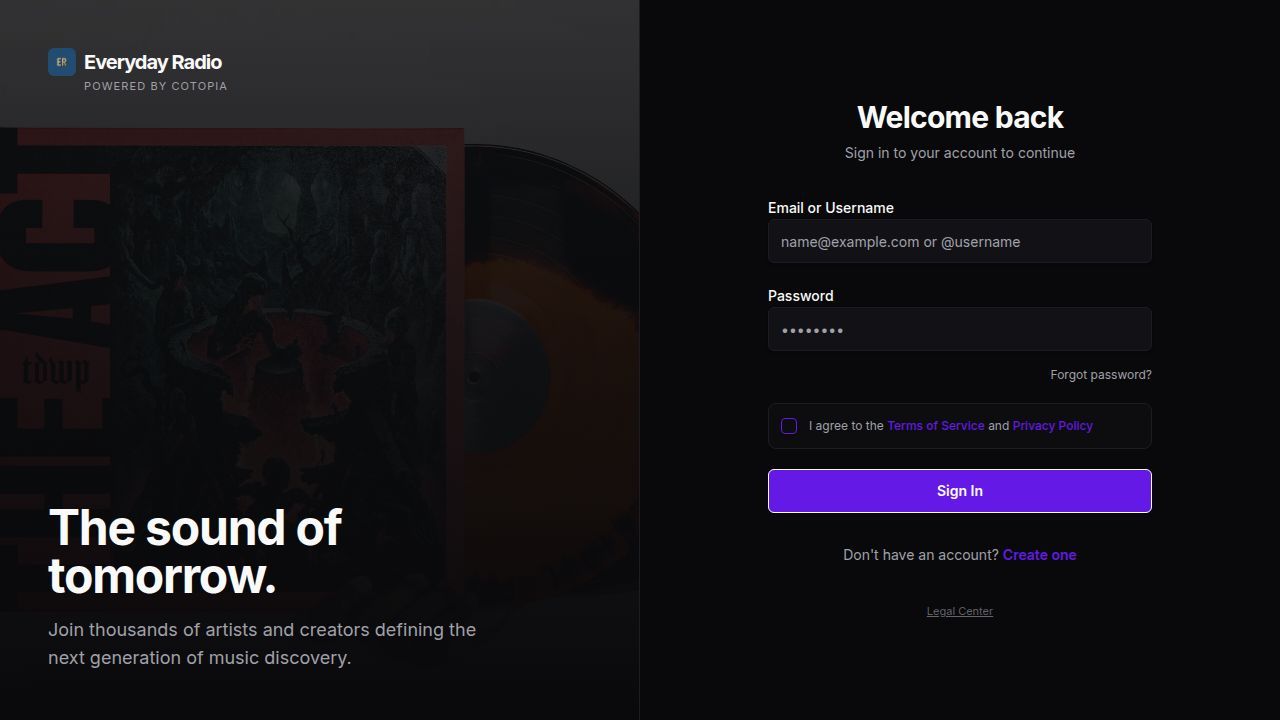
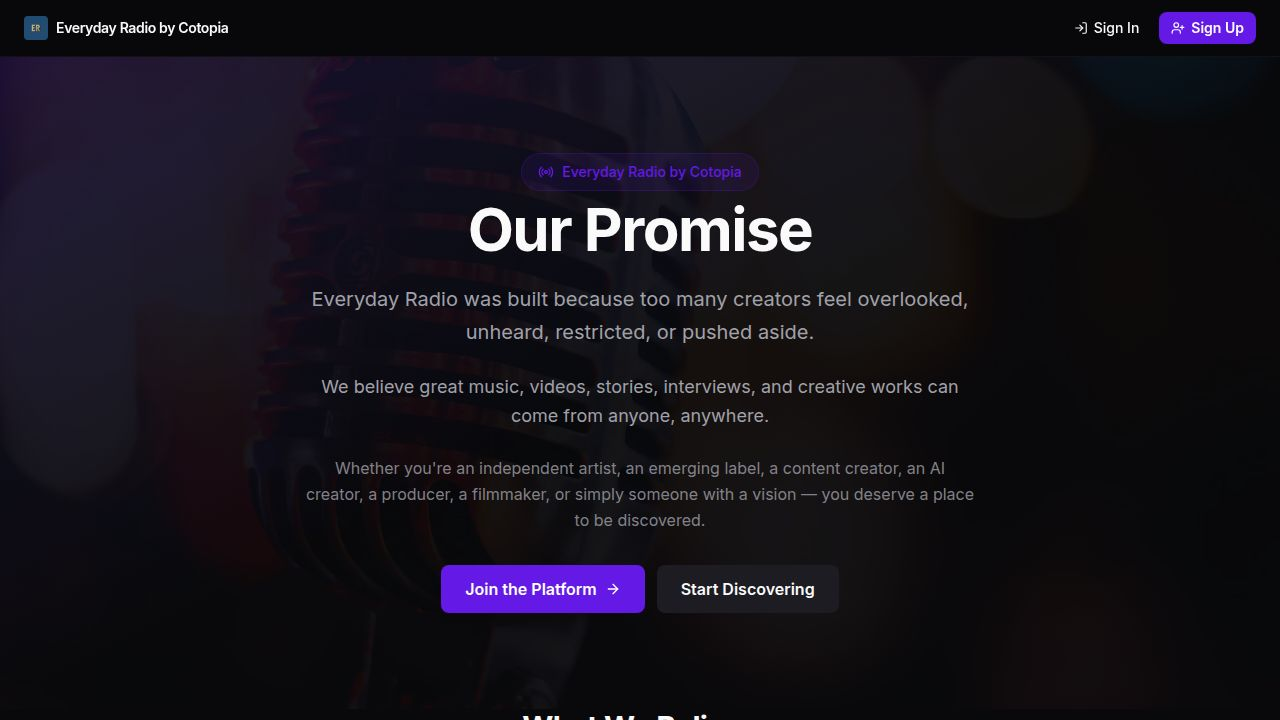
Update site access controls and sitemap for public content
Modify robots.txt and sitemap.xml to reflect changes in publicly accessible routes. Update App.tsx to implement a RootRoute component for handling user authentication and onboarding flow. Adjust sidebar logout navigation and About page to conditionally display authentication navigation.

Replit-Commit-Author: Agent
Replit-Commit-Session-Id: 8a1827d9-ee81-4e69-a9f1-75754c696a03
Replit-Commit-Checkpoint-Type: full_checkpoint
Replit-Commit-Event-Id: 6d3ed1ba-2bed-4387-bc0c-dc2464ab906e
Replit-Commit-Screenshot-Url: https://storage.googleapis.com/screenshot-production-us-central1/98ea616f-b6e7-4a19-90c7-13fbabf8647b/8a1827d9-ee81-4e69-a9f1-75754c696a03/fgLOPmz
Replit-Helium-Checkpoint-Created: true

diff --git a/artifacts/cotopia/src/App.tsx b/artifacts/cotopia/src/App.tsx
@@ -186,6 +186,35 @@ function AuthRoute({ children }: { children: React.ReactNode }) {
   return <>{children}</>;
 }
 
+function RootRoute() {
+  const { user, isLoading } = useAuth();
+  const [location, navigate] = useLocation();
+
+  useEffect(() => {
+    if (isLoading || !user) return;
+    const demographicsCompleted = (user as any).demographicsCompleted;
+    if (demographicsCompleted === false && location !== "/onboarding") {
+      navigate("/onboarding");
+    }
+  }, [user, isLoading, navigate, location]);
+
+  if (isLoading) {
+    return (
+      <div className="flex items-center justify-center min-h-screen bg-background">
+        <div className="w-8 h-8 border-2 border-primary border-t-transparent rounded-full animate-spin" />
+      </div>
+    );
+  }
+
+  if (!user) {
+    return <About showAuthNav />;
+  }
+
+  if ((user as any).demographicsCompleted === false) return null;
+
+  return <Layout><Home /></Layout>;
+}
+
 function Router() {
   return (
     <Switch>
@@ -217,7 +246,7 @@ function Router() {
 
       {/* Main app routes — all protected */}
       <Route path="/">
-        <ProtectedRoute><Layout><Home /></Layout></ProtectedRoute>
+        <RootRoute />
       </Route>
       <Route path="/discover">
         <ProtectedRoute><Layout><Discover /></Layout></ProtectedRoute>
@@ -287,7 +316,9 @@ function Router() {
       </Route>
 
       {/* About / Our Promise — public */}
-      <Route path="/about" component={About} />
+      <Route path="/about">
+        <About />
+      </Route>
 
       {/* Legal Center — public routes */}
       <Route path="/legal" component={LegalCenter} />

diff --git a/artifacts/cotopia/src/pages/about.tsx b/artifacts/cotopia/src/pages/about.tsx
@@ -1,8 +1,12 @@
 import { Link } from "wouter";
-import { Radio, Heart, Users, Lightbulb, Shield, ArrowRight, Music, Video, Globe, MessageCircle, TrendingUp, Star } from "lucide-react";
+import { Radio, Heart, Users, Lightbulb, Shield, ArrowRight, Music, Video, Globe, MessageCircle, TrendingUp, Star, LogIn, UserPlus } from "lucide-react";
 import { useSeo } from "@/hooks/use-seo";
 
-export default function About() {
+interface AboutProps {
+  showAuthNav?: boolean;
+}
+
+export default function About({ showAuthNav = false }: AboutProps) {
   useSeo({
     title: "About Us",
     description: "Learn about Cotopia's mission to champion independent artists and build a community that lives for music.",
@@ -10,6 +14,28 @@ export default function About() {
 
   return (
     <div className="min-h-screen bg-background text-foreground">
+      {showAuthNav && (
+        <div className="sticky top-0 z-30 flex items-center justify-between px-4 sm:px-6 py-3 border-b border-border/50 bg-background/80 backdrop-blur-sm">
+          <div className="flex items-center gap-2">
+            <img src="/logo.jpg" alt="Cotopia" className="w-6 h-6 rounded-sm object-cover flex-shrink-0" />
+            <span className="text-sm font-semibold tracking-tight">Everyday Radio by Cotopia</span>
+          </div>
+          <div className="flex items-center gap-2">
+            <Link href="/login">
+              <button className="inline-flex items-center gap-1.5 px-3 py-1.5 rounded-lg text-sm font-medium text-foreground hover:bg-secondary transition-colors">
+                <LogIn className="w-3.5 h-3.5" />
+                Sign In
+              </button>
+            </Link>
+            <Link href="/register">
+              <button className="inline-flex items-center gap-1.5 px-3 py-1.5 rounded-lg text-sm font-semibold bg-primary text-primary-foreground hover:bg-primary/90 transition-colors">
+                <UserPlus className="w-3.5 h-3.5" />
+                Sign Up
+              </button>
+            </Link>
+          </div>
+        </div>
+      )}
       {/* Hero */}
       <div className="relative overflow-hidden">
         <div className="absolute inset-0 bg-gradient-to-br from-primary/20 via-background to-background" />

diff --git a/artifacts/cotopia/src/components/sidebar.tsx b/artifacts/cotopia/src/components/sidebar.tsx
@@ -584,7 +584,7 @@ export function Sidebar({ onMobileClose }: SidebarProps = {}) {
                 </Button>
               </Link>
             </div>
-            <Button variant="outline" size="sm" className="w-full justify-start gap-2 text-xs" onClick={() => { logout(); navigate("/login"); }}>
+            <Button variant="outline" size="sm" className="w-full justify-start gap-2 text-xs" onClick={() => { logout(); navigate("/"); }}>
               <LogOut className="w-3.5 h-3.5" />
               Sign out
             </Button>